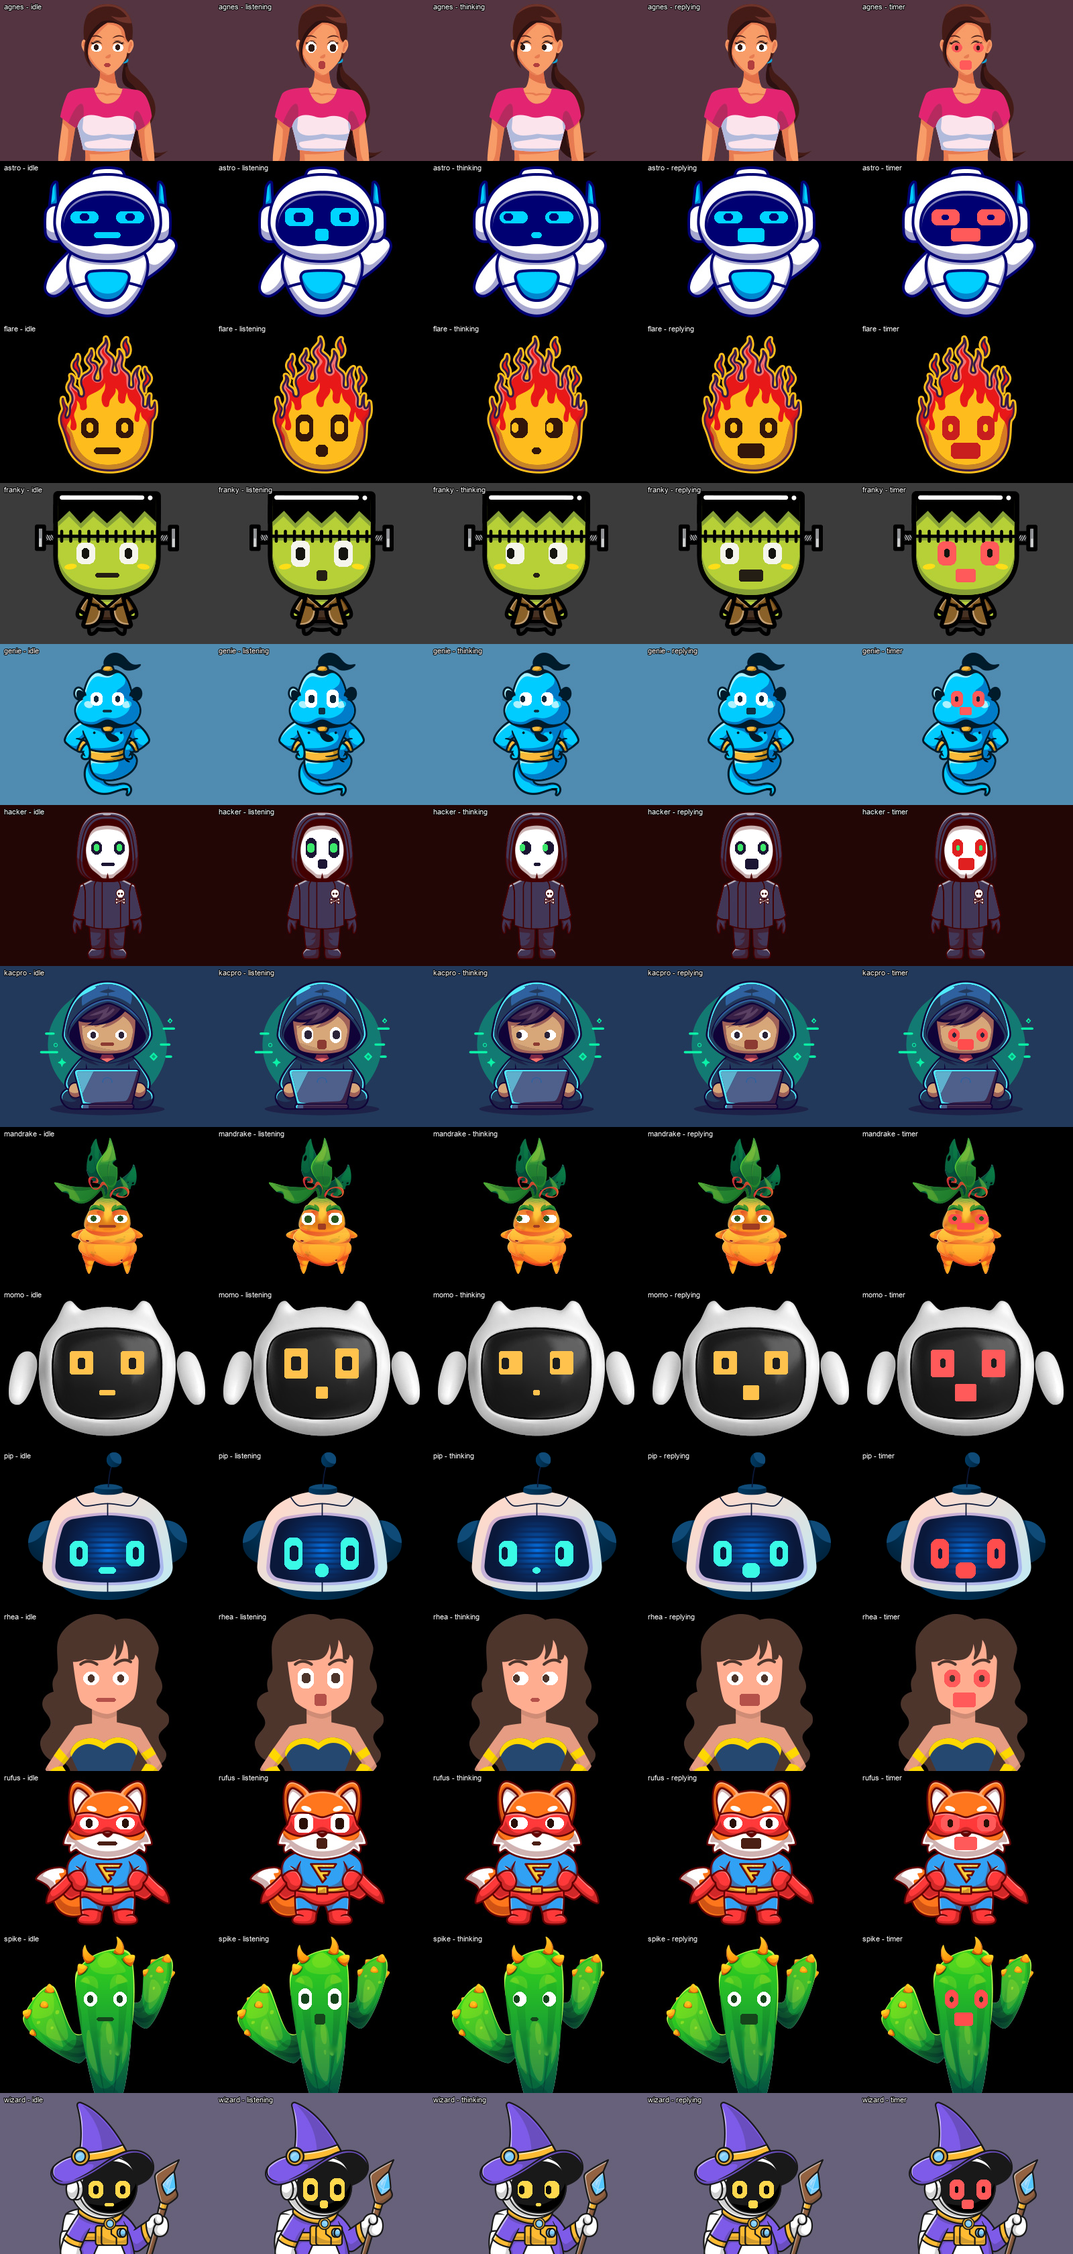
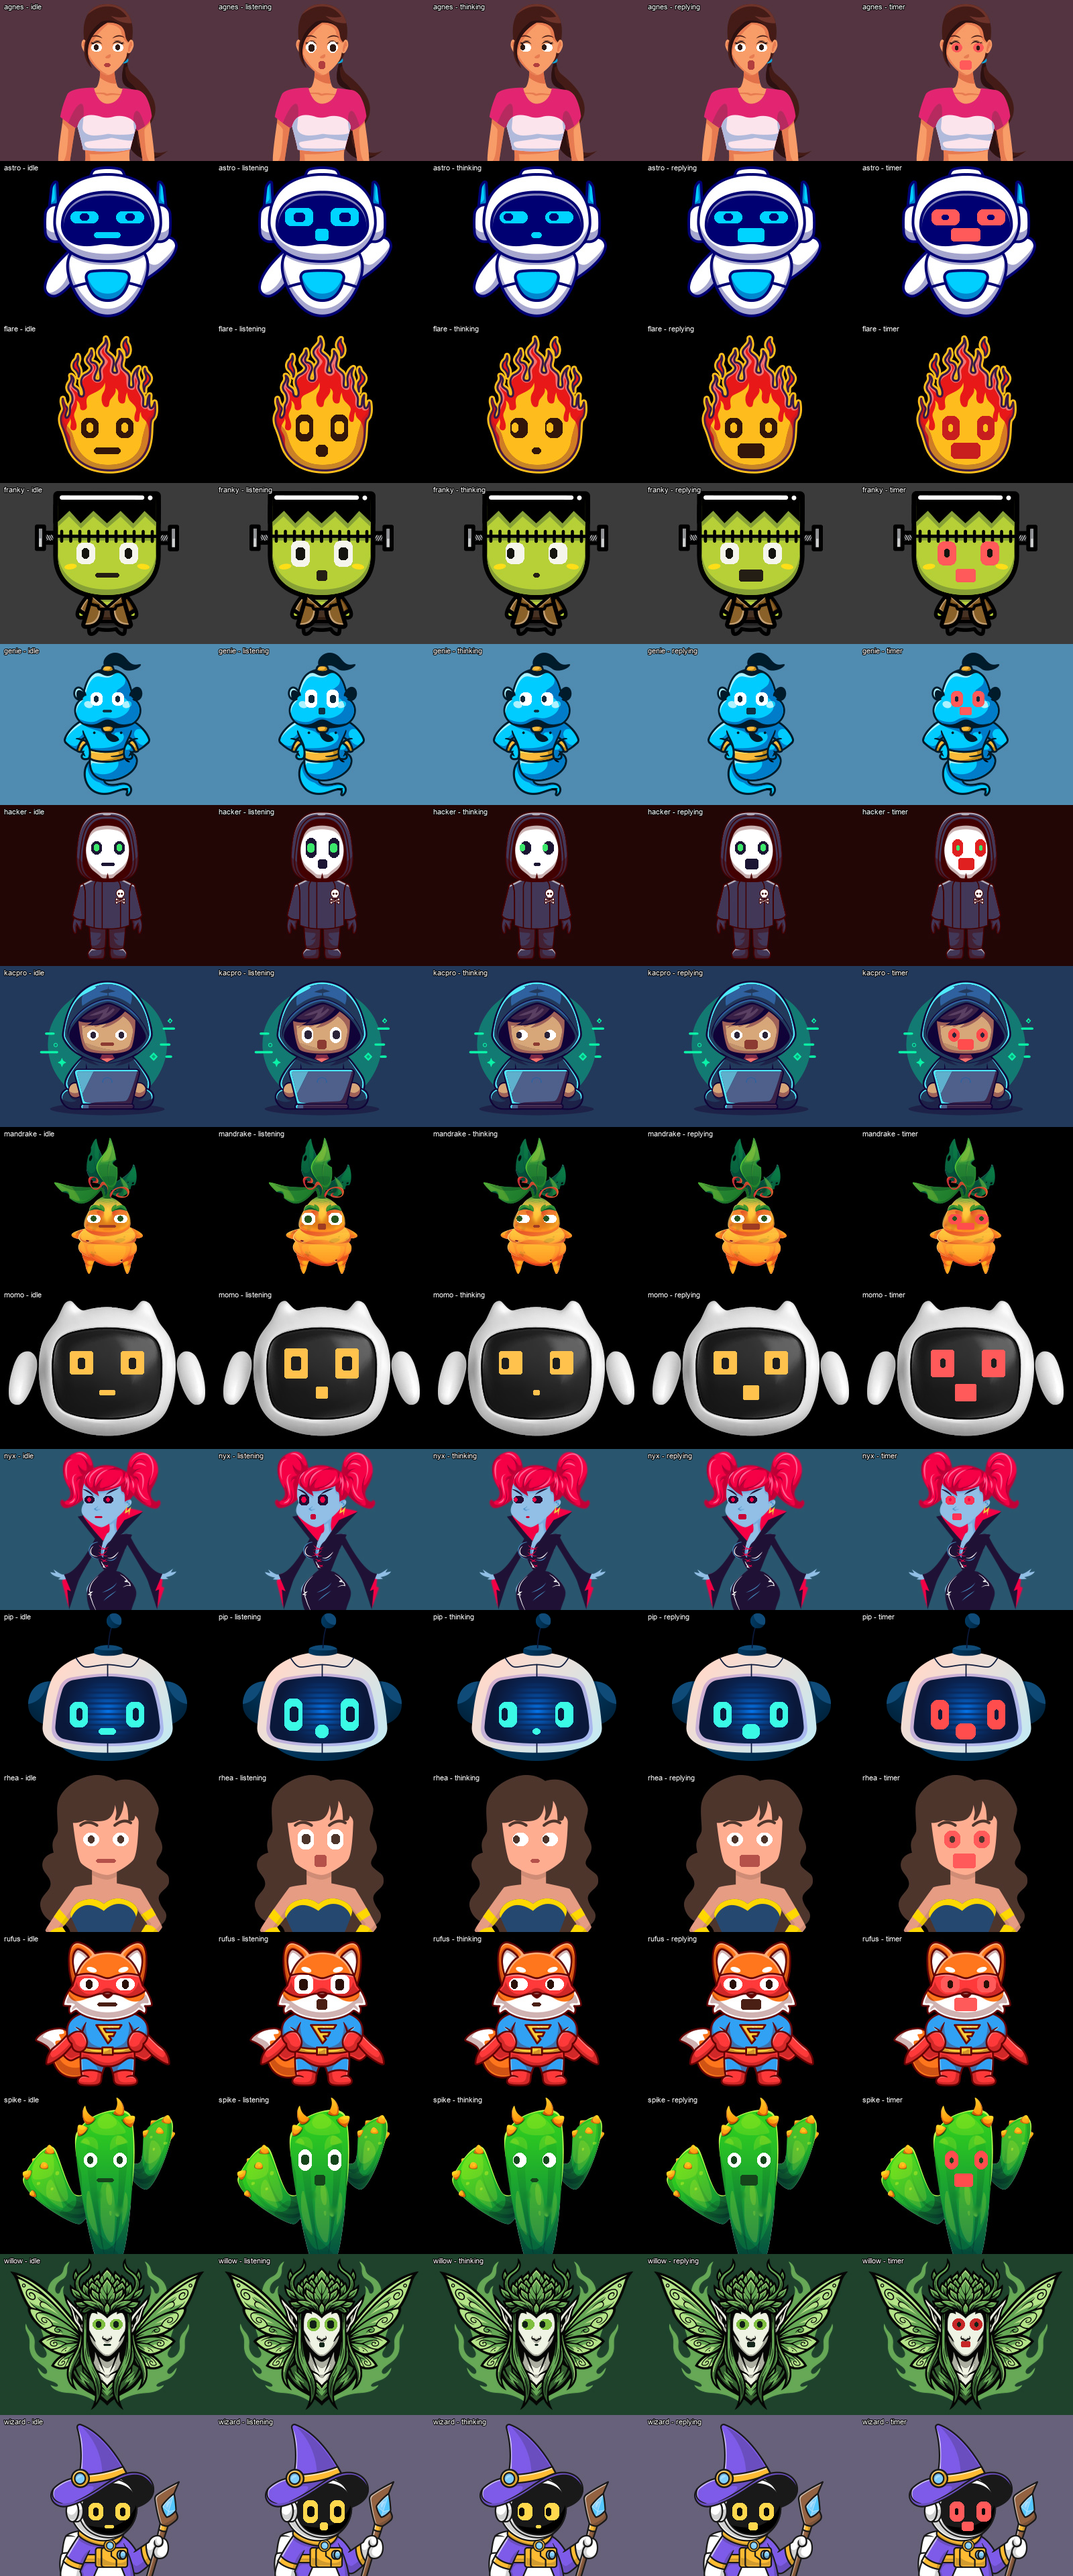
Add Willow and Nyx
The cast goes to 27. Both are emblem-style vector art with the face taken
out, and both were measured rather than guessed - which took three
attempts to get right, and the lesson is written into the files.

What settles a placement is never the proportions of a face in general;
it is the landmarks the artwork still has. Willow's mask carries a nose
and nothing else, so the nose is the scale check: work out the eye line
from the proportions, and if the same arithmetic puts the nose where it
is actually drawn, the scale is right. Nyx kept her angry eyebrows, and
the distance between their centres is what sets the eye spacing - there
is nothing else on that face to measure from.

Willow's eyes are then deliberately larger than the measurement gives.
The numbers off the original produce eyes that read as beady at 320x240,
so the file records that the size is a decision and not a measurement,
and that the mask has four pixels of clearance either side at that width.

Both PNGs went through the same flat-area cleanup as the last batch: the
sources are JPEGs, and vector art shows every 8x8 block on a flat colour.

diff --git a/base/faces/README.md b/base/faces/README.md
@@ -8,9 +8,9 @@ features go. Swapping the assistant is one word: `assistant:`.
 Whichever character is installed, it exposes the same page id, `page_face`, so a
 config can point a phase at it without knowing which one is in use.
 
-![The fourteen characters with artwork, across five phases](../assets/characters.png)
+![The sixteen characters with artwork, across five phases](../assets/characters.png)
 
-Animated, one clip each: [aura](../assets/demo/demo-aura.gif) · [bit](../assets/demo/demo-bit.gif) · [pixel](../assets/demo/demo-pixel.gif) · [iris](../assets/demo/demo-iris.gif) · [rain](../assets/demo/demo-rain.gif) · [crt](../assets/demo/demo-crt.gif) · [pip](../assets/demo/demo-pip.gif) · [astro](../assets/demo/demo-astro.gif) · [momo](../assets/demo/demo-momo.gif) · [franky](../assets/demo/demo-franky.gif) · [wizard](../assets/demo/demo-wizard.gif) · [genie](../assets/demo/demo-genie.gif) · [flare](../assets/demo/demo-flare.gif) · [kitt](../assets/demo/demo-kitt.gif) · [nixie](../assets/demo/demo-nixie.gif) · [scope](../assets/demo/demo-scope.gif) · [vu](../assets/demo/demo-vu.gif) · [rhea](../assets/demo/demo-rhea.gif) · [rufus](../assets/demo/demo-rufus.gif) · [agnes](../assets/demo/demo-agnes.gif) · [kacpro](../assets/demo/demo-kacpro.gif) · [hacker](../assets/demo/demo-hacker.gif) · [mandrake](../assets/demo/demo-mandrake.gif) · [spike](../assets/demo/demo-spike.gif)
+Animated, one clip each: [aura](../assets/demo/demo-aura.gif) · [bit](../assets/demo/demo-bit.gif) · [pixel](../assets/demo/demo-pixel.gif) · [iris](../assets/demo/demo-iris.gif) · [rain](../assets/demo/demo-rain.gif) · [crt](../assets/demo/demo-crt.gif) · [pip](../assets/demo/demo-pip.gif) · [astro](../assets/demo/demo-astro.gif) · [momo](../assets/demo/demo-momo.gif) · [franky](../assets/demo/demo-franky.gif) · [wizard](../assets/demo/demo-wizard.gif) · [genie](../assets/demo/demo-genie.gif) · [flare](../assets/demo/demo-flare.gif) · [kitt](../assets/demo/demo-kitt.gif) · [nixie](../assets/demo/demo-nixie.gif) · [scope](../assets/demo/demo-scope.gif) · [vu](../assets/demo/demo-vu.gif) · [rhea](../assets/demo/demo-rhea.gif) · [rufus](../assets/demo/demo-rufus.gif) · [agnes](../assets/demo/demo-agnes.gif) · [kacpro](../assets/demo/demo-kacpro.gif) · [hacker](../assets/demo/demo-hacker.gif) · [mandrake](../assets/demo/demo-mandrake.gif) · [spike](../assets/demo/demo-spike.gif) · [willow](../assets/demo/demo-willow.gif) · [nyx](../assets/demo/demo-nyx.gif)
 
 The preview image above shows only the characters that use artwork; `aura`, `bit`, `pixel`,
 `iris`, `rain`, `crt`, `kitt`, `nixie`, `scope` and `vu` draw themselves and are in the clips.
@@ -47,6 +47,8 @@ in its clip without a build.
 | **KacPRO** | Hood, laptop, green glow | White cartoon eyes with dark pupils on skin. The hood leaves 34 px of usable height between the fringe and the chin, so the eyes are wider than they are tall and the mouth opens by 14 rather than 22. |
 | **hacker** | Empty hood, skull badge | The only DARK-eyed character with BRIGHT pupils: black shapes on the blank white face with a green dot inside, which reads as a glow. The face sits 50 px above the frame's centre, so every offset here is a large negative number. |
 | **Mandrake** | Root in a pot, leaves on top | White eyes with green pupils. The artwork arrived asleep - closed-eye arcs and lips painted on the bulb - and those were erased, unlike rhea's, because a drawn eye on top of a painted closed one reads as a bruise. The two dark leaves above were kept and work as eyebrows. The tightest face in the set: 21 px between the leaves and the collar. |
+| **Willow** | Emblem: wings, leaf crown, pale mask | Green eyes with a near-black pupil, on a mask carrying nothing but a nose. The artwork is symmetric, so the mirror axis really is x 160 and the nose is a third landmark that checks the scale rather than something to compromise with. The eyes are deliberately LARGER than the original's proportions give - at this size the measured numbers read as beady. |
+| **Nyx** | Red pigtails, blue skin, black cape | Dark violet eyes with red pupils. The artwork keeps the angry slanted eyebrows and the nose, and those do the acting for free. Her head is turned, so the eyes want an axis at 148 and the mouth one at 144; the engine's single axis splits it at 147. |
 | **Spike** | Cactus: a head on a stem, an arm each side, orange spines on top | White eyes with a dark green pupil and mouth. The roomiest artwork face here, so it carries the largest eyes of any character with a picture. The stem leans: its mirror axis is x 157, not 160. |
 
 `face_center_x` shifts the whole face sideways when the artwork is not centred.

diff --git a/README.md b/README.md
@@ -74,8 +74,8 @@ decision, switching between them is not. Artwork characters only. Details:
 
 ### The cast
 
-Twenty-five of them, and they are not one face on twenty-five bodies: the eyes,
-the colours, the range of every expression and in ten cases the entire way of
+Twenty-seven of them, and they are not one face on twenty-seven bodies: the
+eyes, the colours, the range of every expression and in ten cases the entire way of
 being on screen belong to the character. Name any of them in lower case.
 
 <table>
@@ -172,6 +172,14 @@ being on screen belong to the character. Name any of them in lower case.
     <td><h3>Mandrake</h3>A root that climbed out of the pot and stayed. Sleepy under its leaves, slow to open its eyes, and quietly pleased to be indoors where it is warm.</td>
   </tr>
   <tr>
+    <td width="290"><img src="base/assets/demo/demo-willow.gif" width="272" alt="Willow"></td>
+    <td><h3>Willow</h3>Runs the house the way a forest runs itself: slowly, and without being asked twice. Sets your timers, dims your lamps, and gently implies that the plants were managing all of this long before the wifi.</td>
+  </tr>
+  <tr>
+    <td width="290"><img src="base/assets/demo/demo-nyx.gif" width="272" alt="Nyx"></td>
+    <td><h3>Nyx</h3>Nocturnal, unimpressed, and delighted that your lights take orders. Handles the evening routine with the enthusiasm of someone whose day starts at sunset, and treats "good night, turn everything off" as an invitation.</td>
+  </tr>
+  <tr>
     <td width="290"><img src="base/assets/demo/demo-spike.gif" width="272" alt="Spike"></td>
     <td><h3>Spike</h3>Both arms up, a crown of orange spines and absolutely no hurry. Watches the kitchen the way a houseplant does, which is to say constantly, needs nothing from anybody, and says its piece only when asked.</td>
   </tr>
@@ -230,7 +238,7 @@ base/
     genie, flare, rhea,
     rufus, agnes, kacpro,
     hacker, mandrake,
-    spike
+    spike, willow, nyx
     picker.yaml            # optional: an "Assistant" select, four to switch between
     aura, bit, iris,       # these draw themselves, no artwork at all
     crt, kitt, nixie,

diff --git a/CHANGELOG.md b/CHANGELOG.md
@@ -271,6 +271,18 @@ their alarm, the touchscreen, the home screen and the animated character.
   characters' numbers, and a hand-copied table would drift the first time
   somebody nudged an eye.
 
+- **Two more characters** - `willow` and `nyx` - taking the cast to 27. Both are
+  emblem-style vector art with the face taken out, and both were measured rather
+  than guessed, which took three attempts to learn. What settles a placement is
+  never the proportions of a face in general; it is the landmarks the artwork
+  still has. Willow's mask carries a nose and nothing else, so the nose is the
+  scale check: if the measured eye line puts it where it is drawn, the scale is
+  right. Nyx kept her eyebrows, and their centres are what sets the eye spacing.
+
+  Willow's eyes are then deliberately bigger than the measurement says. The
+  numbers off the original produce eyes that read as beady at this size, and the
+  file says so, so that nobody later "fixes" them back to the measured value.
+
 - **Four more characters** - `kacpro`, `hacker`, `mandrake` and `spike` - taking
   the cast to 25. Two of them cost nothing but measurement: KacPRO's hood and
   hacker's blank oval arrived with the face area already empty. Mandrake did not.
